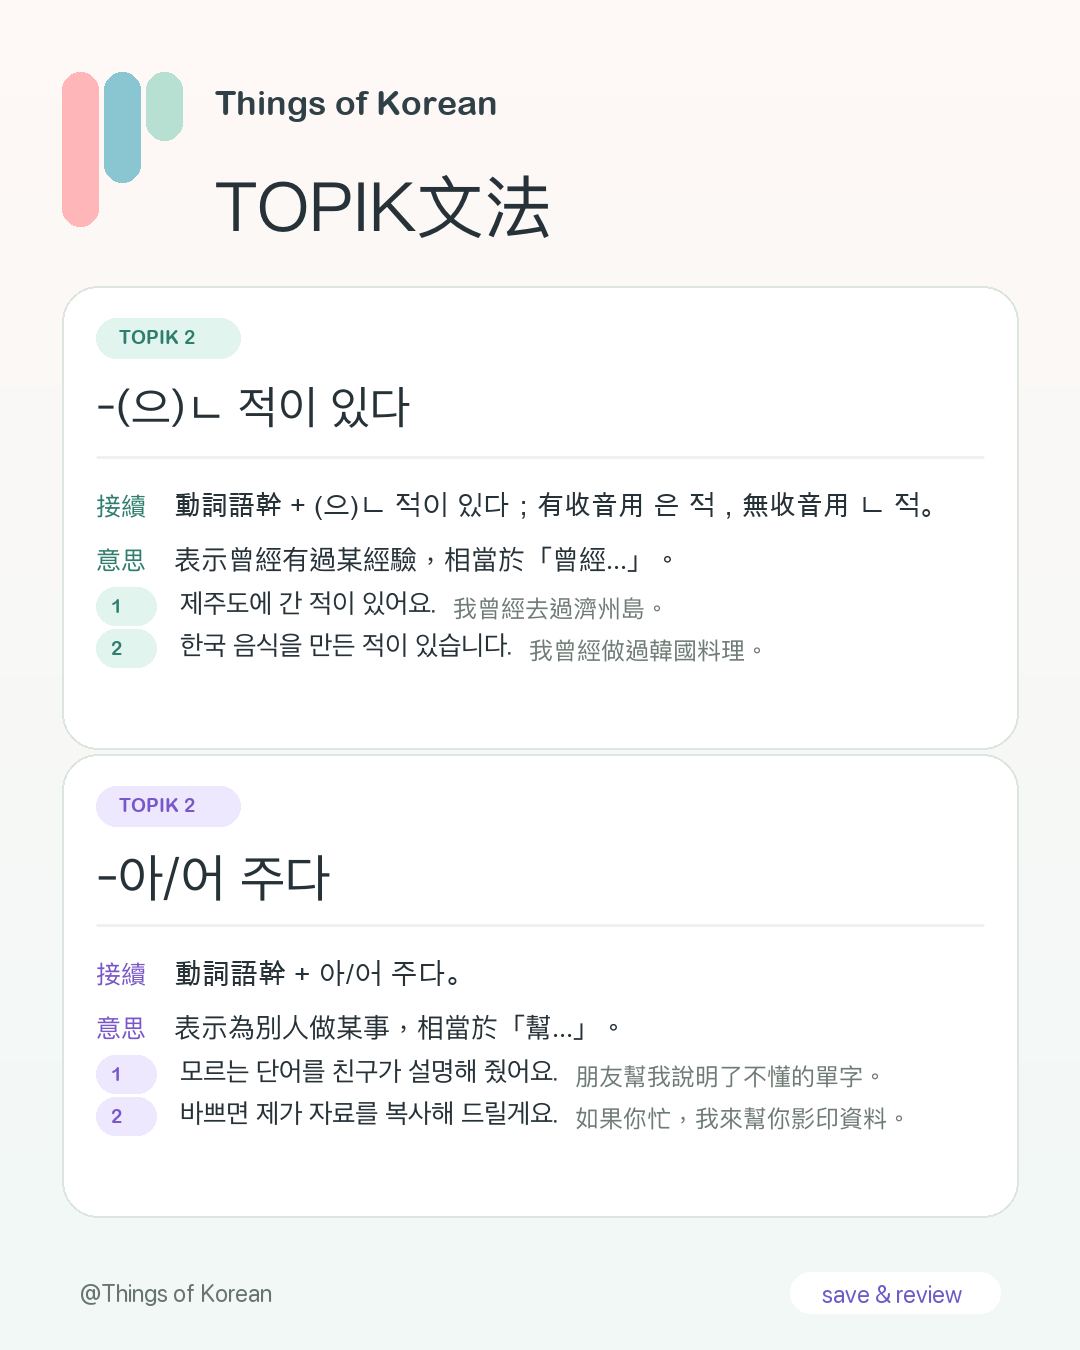
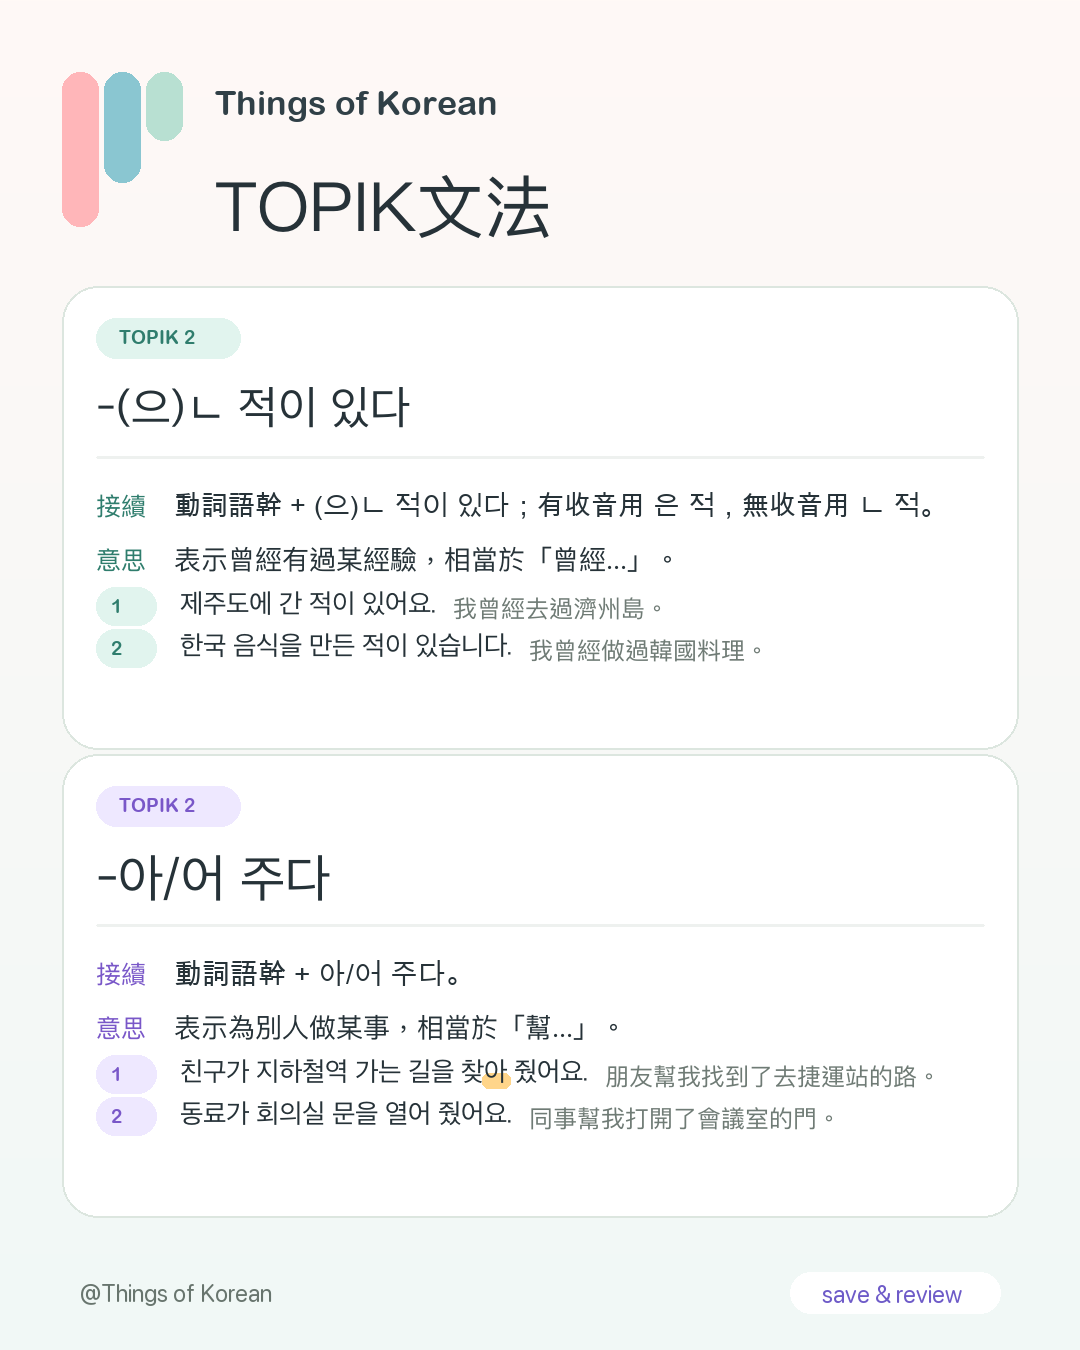
Clarify TOPIK give grammar examples

Changed region(s): [[0.1528, 0.7778, 0.8556, 0.84]]

diff --git a/src/content.js b/src/content.js
@@ -495,8 +495,8 @@ const grammarBank = [
     attachment: "動詞語幹 + 아/어 주다。",
     meaning: "表示為別人做某事，相當於「幫...」。",
     examples: [
-      ["모르는 단어를 친구가 설명해 줬어요.", "朋友幫我說明了不懂的單字。"],
-      ["바쁘면 제가 자료를 복사해 드릴게요.", "如果你忙，我來幫你影印資料。"]
+      ["친구가 지하철역 가는 길을 찾아 줬어요.", "朋友幫我找到了去捷運站的路。"],
+      ["동료가 회의실 문을 열어 줬어요.", "同事幫我打開了會議室的門。"]
     ]
   },
   {
